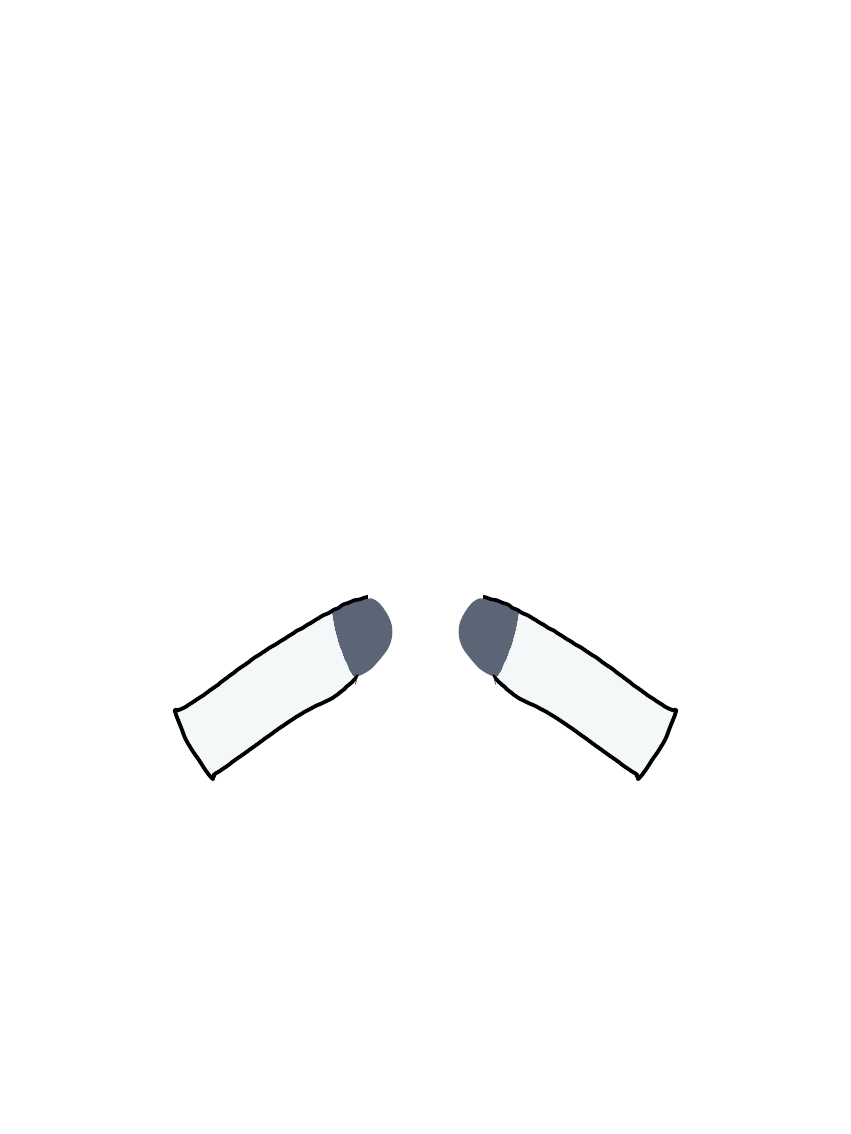
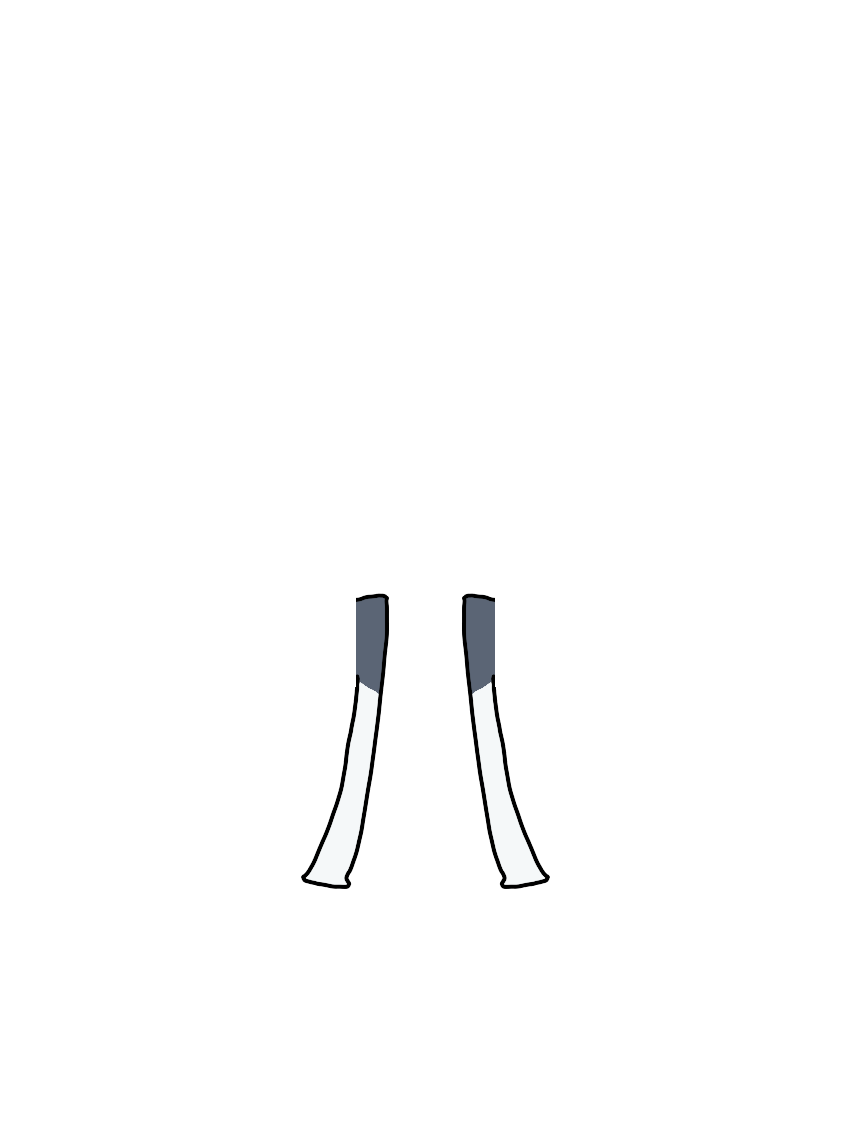
Clothing sleeves as separate per-arm pictures (<name>_arm_L/_arm_R); garments are no longer cut
Claude-Session: https://claude.ai/code/session_01H839G1kH6FFFvxMWyLAkQa

diff --git a/ragdoll.js b/ragdoll.js
@@ -601,7 +601,7 @@
     // stiff (optional): garments kept whole over the chest (a top): over the
     // chest they go on the body's over-the-chest layer, but their sleeves and
     // anything else on the arms, legs or head still go with those parts.
-    buildArt(imgs, cloth, cs, hang, over, under, blow, blowFrom, stiff) {
+    buildArt(imgs, cloth, cs, hang, over, under, blow, blowFrom, stiff, armCloth) {
       const CW = Math.round(CFG.SRC_W * cs), CH = Math.round(CFG.SRC_H * cs);
       const mk = (w, h) => { const c = document.createElement('canvas'); c.width = Math.max(1, w); c.height = Math.max(1, h); return c; };
       const mkRead = (w, h) => { const c = mk(w, h); return { c, x: c.getContext('2d', { willReadFrequently: true }) }; };
@@ -880,6 +880,27 @@
         for (let i = out.length - 1; i >= 0; i--) if (out[i].offset || out[i].id === 'body') { at = i + 1; break; }
         out.splice(at, 0, {
           id: 'body_over', pivot: 'N', child: 'P', canvas: c,
+          ox: pv.x * cs - b.x0, oy: pv.y * cs - b.y0,
+          restAngle: Math.atan2(ch.y - pv.y, ch.x - pv.x),
+        });
+      }
+      // Sleeves: each arm's clothing is its own picture, drawn above the body and
+      // turned with that arm (nothing is cut out of the garments).
+      for (const id of ['arm_L', 'arm_R']) {
+        const src = armCloth && armCloth[id];
+        const def = CFG.parts.find(p => p.id === id);
+        if (!src || !def) continue;
+        const r = mkRead(CW, CH);
+        r.x.drawImage(src, 0, 0);
+        const b = bboxOf(r.x);
+        if (!b) continue;
+        const c = mk(b.x1 - b.x0, b.y1 - b.y0);
+        c.getContext('2d').drawImage(r.c, -b.x0, -b.y0);
+        const pv = CFG.particles[def.pivot], ch = CFG.particles[def.child];
+        let at = out.findIndex(o => o.id === 'head_worn');
+        if (at < 0) at = out.length;
+        out.splice(at, 0, {
+          id: id + '_cloth', pivot: def.pivot, child: def.child, canvas: c,
           ox: pv.x * cs - b.x0, oy: pv.y * cs - b.y0,
           restAngle: Math.atan2(ch.y - pv.y, ch.x - pv.x),
         });

diff --git a/pet_desktop.js b/pet_desktop.js
@@ -170,6 +170,8 @@
     // Clothes on top, layered by z and tinted, straight from the outfit system.
     if (typeof window.drawOutfitOverlay === 'function') {
       window.drawOutfitOverlay(ctx, 'stand', x, y, w, h);
+      window.drawOutfitOverlay(ctx, 'stand', x, y, w, h, null, 'armL');
+      window.drawOutfitOverlay(ctx, 'stand', x, y, w, h, null, 'armR');
     }
   }
 
@@ -226,7 +228,7 @@
     // the legs: only its shape is needed, the colours come from `cloth`.
     // Plus each garment's optional _over / _under layers (see outfit_system.js).
     const sized = () => { const c = document.createElement('canvas'); c.width = cloth.width; c.height = cloth.height; return c; };
-    const hang = sized(), over = sized(), under = sized(), blow = sized(), stiff = sized();
+    const hang = sized(), over = sized(), under = sized(), blow = sized(), stiff = sized(), armL = sized(), armR = sized();
     let blowFrom = Infinity;
     if (typeof window.drawOutfitOverlay === 'function') {
       window.drawOutfitOverlay(cloth.getContext('2d'), 'stand', 0, 0, cloth.width, cloth.height, it => !it.stiff && !it.blows);
@@ -241,8 +243,11 @@
       // Stiff garments stay whole over the chest (their sleeves still follow the arms).
       window.drawOutfitOverlay(stiff.getContext('2d'), 'stand', 0, 0, cloth.width, cloth.height, it => it.stiff);
       window.drawOutfitOverlay(under.getContext('2d'), 'stand', 0, 0, cloth.width, cloth.height, null, 'under');
+      // Sleeves: one picture per arm, turned with that arm.
+      window.drawOutfitOverlay(armL.getContext('2d'), 'stand', 0, 0, cloth.width, cloth.height, null, 'armL');
+      window.drawOutfitOverlay(armR.getContext('2d'), 'stand', 0, 0, cloth.width, cloth.height, null, 'armR');
     }
-    pet.body.buildArt(pet.partImgs, cloth, cs, hang, over, under, blow, isFinite(blowFrom) ? blowFrom : null, stiff);
+    pet.body.buildArt(pet.partImgs, cloth, cs, hang, over, under, blow, isFinite(blowFrom) ? blowFrom : null, stiff, { arm_L: armL, arm_R: armR });
   }
 
   // Feed the scene's state to the skeleton.

diff --git a/ragdoll_config.js b/ragdoll_config.js
@@ -99,8 +99,8 @@
     { id: 'shoulder_R', file: 'shoulder_R', optional: true, pivot: 'N', child: 'P' },
     { id: 'leg_L', file: 'leg_L', drop: true, pivot: 'HipL', child: 'FL', region: { t: 'rect', x0: 0,   y0: 868, x1: 425, y1: SRC_H } },
     { id: 'leg_R', file: 'leg_R', drop: true, pivot: 'HipR', child: 'FR', region: { t: 'rect', x0: 425, y0: 868, x1: SRC_W, y1: SRC_H } },
-    { id: 'arm_L', file: 'arm_L', pivot: 'SL', child: 'HL', region: { t: 'rect', x0: 0,   y0: 606, x1: 346,   y1: 846 } },
-    { id: 'arm_R', file: 'arm_R', pivot: 'SR', child: 'HR', region: { t: 'rect', x0: 505, y0: 606, x1: SRC_W, y1: 846 } },
+    { id: 'arm_L', file: 'arm_L', pivot: 'SL', child: 'HL' },
+    { id: 'arm_R', file: 'arm_R', pivot: 'SR', child: 'HR' },
     { id: 'body',  file: 'body',  pivot: 'N', child: 'P', rest: true },
     { id: 'chest_L', file: 'chest_L', optional: true, pivot: 'N', child: 'P', offset: 'CL', region: { t: 'ellipse', cx: 381, cy: 676, rx: 54, ry: 56 } },
     { id: 'chest_R', file: 'chest_R', optional: true, pivot: 'N', child: 'P', offset: 'CR', region: { t: 'ellipse', cx: 469, cy: 676, rx: 54, ry: 56 } },

diff --git a/outfit_system.js b/outfit_system.js
@@ -162,6 +162,9 @@
         if (it) catalog[c.key].items[it.id] = {
           id: it.id, label: it.label, img: img(`${it.prefix}.png`),
           over: img(`${it.prefix}_over.png`), under: img(`${it.prefix}_under.png`),
+          // <name>_arm_L.png / <name>_arm_R.png: the garment's sleeves, drawn as
+          // their own pictures that turn with each arm (so the garment itself is never cut up).
+          armL: img(`${it.prefix}_arm_L.png`), armR: img(`${it.prefix}_arm_R.png`),
           hangs: it.hangs === undefined ? c.hangs : !!it.hangs,
           // `stiff`: one solid piece (a sports bra) that would tear if cut up
           // along the body: kept whole on the body, over the chest.
